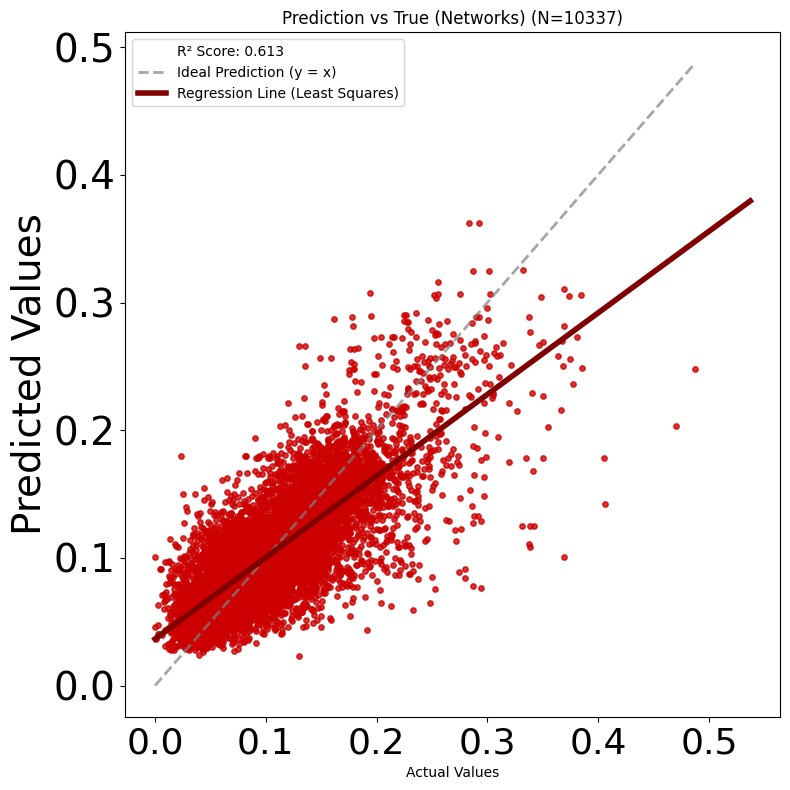
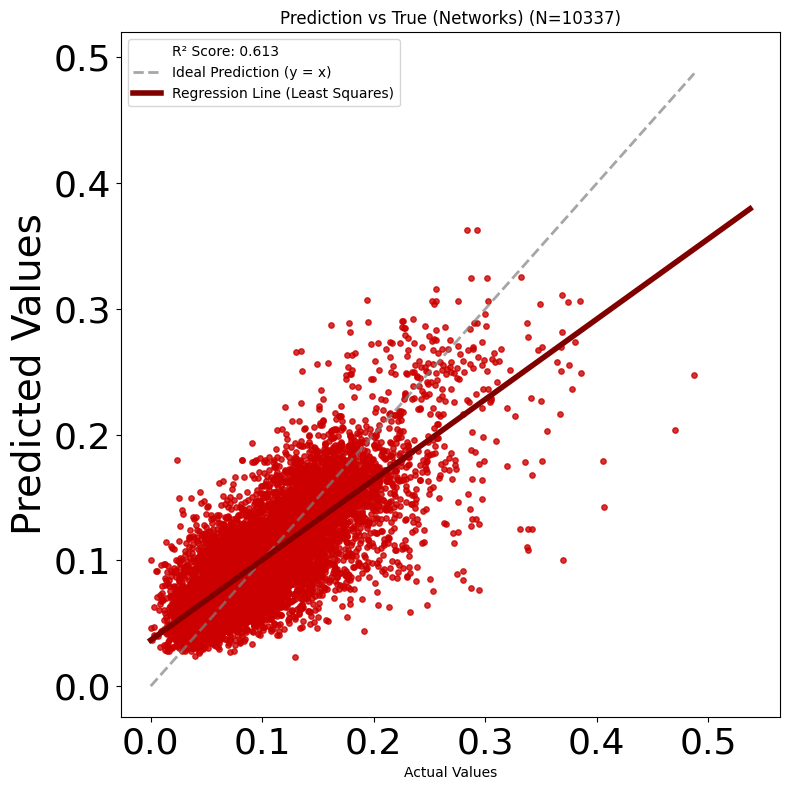
Made dataset reduction plot more compact

diff --git a/rf_dl/dataset_size_reduction_exp.py b/rf_dl/dataset_size_reduction_exp.py
@@ -67,43 +67,66 @@ def run_reduction_experiment(X, y, base_model, fractions=None, random_state=0):
         
     return results
 
-def plot_experiment_results(results, output_path=None, title="Model Performance vs. Dataset Size"):
+def plot_experiment_results(results, output_path=None, title="", is_networked=True):
     """
     Plots the Train vs Test scores across different dataset sizes.
     """
     sizes = results['train_size']
-    title_lower = title.lower() if title else ""
-    if 'non networked' in title_lower or 'non network' in title_lower or 'non-network' in title_lower or 'non_network' in title_lower:
-        color = 'black'
-    else:
-        color = '#CC0000'
+    
+    # Using the cleaner color logic we set up earlier
+    color = '#CC0000' if is_networked else '#333333'
         
-    plt.figure(figsize=(10, 6))
+    # 1. Make the figure much more compact and square
+    plt.figure(figsize=(6, 5))
     
     # Thicker line (4), bigger dots on the line (markersize=12)
     plt.plot(sizes, results['test_score'], 'o-', label='Test Score (R²)', color=color, linewidth=4, markersize=12)
-    plt.gca().invert_xaxis() # Reverse the x axis
     
-    plt.title(title)
-    plt.xlabel("Number of Training Samples")
-    plt.ylabel("R² Score", fontsize=36)
-    
-    # Set 12k format and more entries on axis
     ax = plt.gca()
+    ax.invert_xaxis() # Reverse the x axis
+    
+    # 2. Remove top and right borders to match reference
+    ax.spines['top'].set_visible(False)
+    ax.spines['right'].set_visible(False)
+    
+    if title:
+        plt.title(title)
+        
+    # Updated Y-label to match reference
+    plt.ylabel("R² (Test set)", fontsize=36)
+    
+    # 3. Explicit Y-axis intervals to match reference exactly
+    plt.yticks([0, 0.25, 0.5, 0.75, 1.0])
+    
+    # 4. Format X-axis with 2 decimal places and capital 'K'
     from matplotlib.ticker import FuncFormatter, MaxNLocator
-    ax.xaxis.set_major_locator(MaxNLocator(nbins=10))
+    # Reduced number of bins so the vertical text doesn't overlap
+    ax.xaxis.set_major_locator(MaxNLocator(nbins=7)) 
+    
     def format_k(x, pos):
         if x >= 1000:
-            return f'{int(x/1000)}k'
+            # Formats to 2 decimal places, e.g., 33.58K
+            return f'{x/1000:.2f}K'.replace('.00K', 'K')
         return f'{int(x)}'
+        
     ax.xaxis.set_major_formatter(FuncFormatter(format_k))
     
-    plt.ylim(0, 1.05) # R2 is typically <= 1
-    plt.legend()
+    # 5. Rotate X labels 90 degrees and make tick marks thicker
+    plt.xticks(rotation=90)
+
+    ax.tick_params(axis='y', labelsize=28, width=2, length=8) 
+    ax.tick_params(axis='x', labelsize=28, width=2, length=8) 
+    
+    plt.ylim(0, 1.05) 
+    
+    # Removed the box around the legend to keep it clean
+    plt.legend(frameon=False) 
     plt.grid(False)
     
+    plt.tight_layout()
+    
     if output_path:
-        plt.savefig(output_path)
+        plt.savefig(output_path, bbox_inches='tight')
         print(f"Experiment plot saved to {output_path}")
-    else:
-        plt.show()
+    
+    plt.show()

diff --git a/rf_dl/model_analysis.py b/rf_dl/model_analysis.py
@@ -66,9 +66,12 @@ def plot_predicted_vs_actual(y_test, y_pred, title="Predicted vs Actual", is_net
     plt.title(title)
     plt.xlabel("Actual Values")
     plt.ylabel("Predicted Values", fontsize=28)
+
+    current_ymin, current_ymax = plt.ylim()
+    plt.ylim(current_ymin, max(current_ymax, 0.52))
     
     # Dialed down to 24px as previously discussed
-    plt.tick_params(axis='y', labelsize=28)
+    plt.tick_params(axis='y', labelsize=26)
      # Dialed down to 24px as previously discussed
     plt.tick_params(axis='x', labelsize=26)
     
